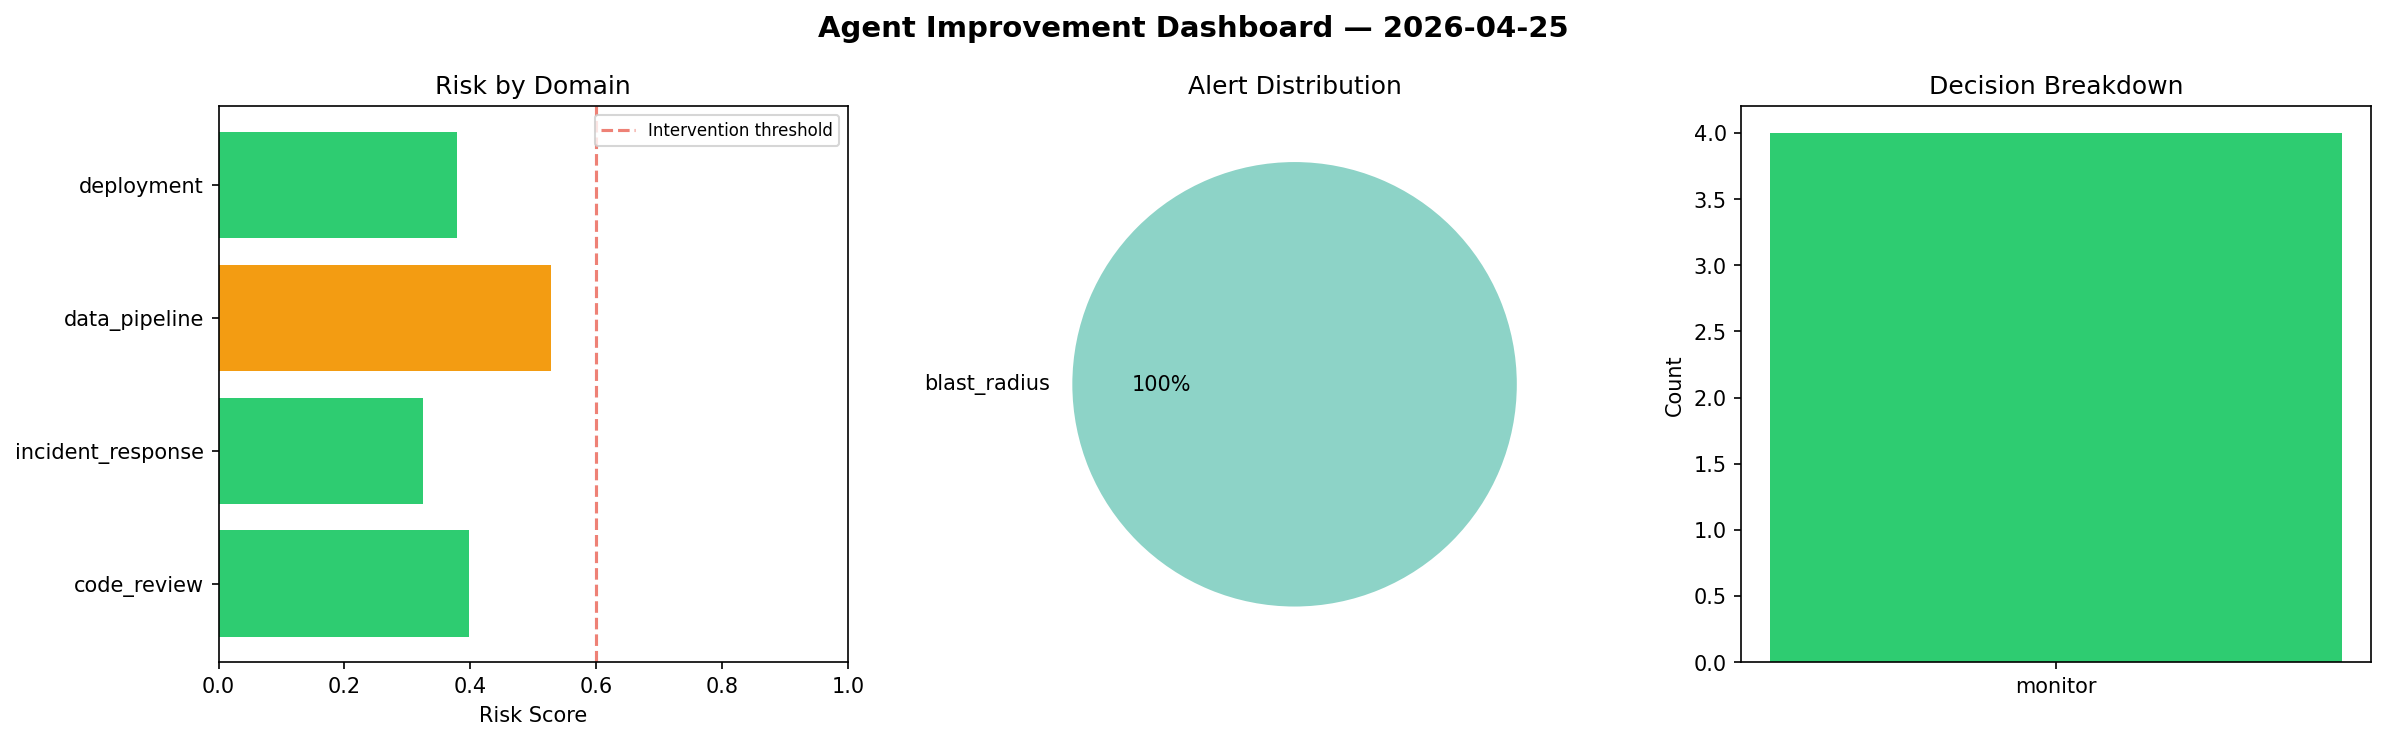
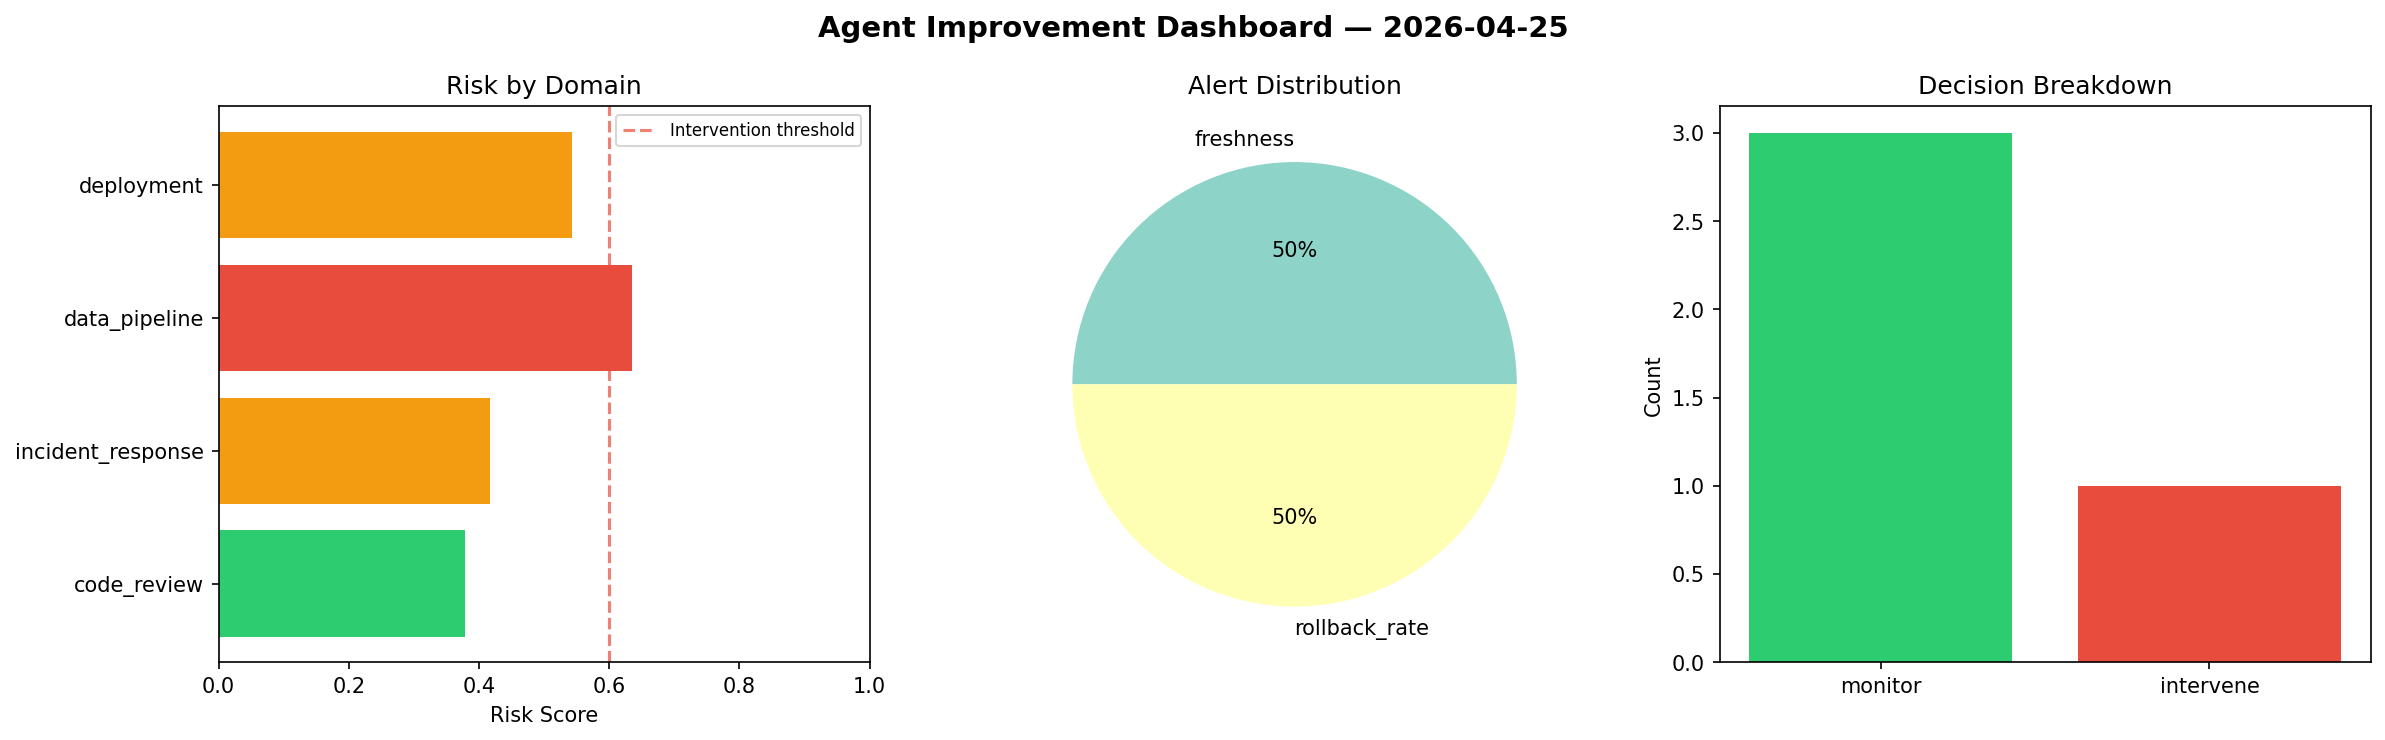
agent-improvement: daily cycle 2026-04-25T09:10

diff --git a/logs/2026-04-25.md b/logs/2026-04-25.md
@@ -1,6 +1,6 @@
 # Agent Improvement Report — 2026-04-25
 
-**Cycle ID:** `67b2c98e` | **Avg Risk:** 0.4078 | **Interventions:** 0/4
+**Cycle ID:** `d96ac67f` | **Avg Risk:** 0.4931 | **Interventions:** 1/4
 
 ![Dashboard](2026-04-25_dashboard.png)
 
@@ -10,18 +10,18 @@
 
 | Domain | Risk Score | Decision | Alerts |
 |--------|-----------|----------|--------|
-| code_review | 0.3987 | monitor | none |
-| incident_response | 0.3247 | monitor | blast_radius |
-| data_pipeline | 0.5285 | monitor | none |
-| deployment | 0.3793 | monitor | none |
+| code_review | 0.3788 | monitor | none |
+| incident_response | 0.4167 | monitor | none |
+| data_pipeline | 0.6346 | intervene | freshness |
+| deployment | 0.5421 | monitor | rollback_rate |
 
 ## Delta vs Yesterday
 
 | Domain | Today | Yesterday | Change |
 |--------|-------|-----------|--------|
-| code_review | 0.3987 | 0.6301 | 📉 -36.7% |
-| incident_response | 0.3247 | 0.2648 | 📈 22.6% |
-| data_pipeline | 0.5285 | 0.2794 | 📈 89.2% |
-| deployment | 0.3793 | 0.3995 | 📉 -5.1% |
+| code_review | 0.3788 | 0.6301 | 📉 -39.9% |
+| incident_response | 0.4167 | 0.2648 | 📈 57.4% |
+| data_pipeline | 0.6346 | 0.2794 | 📈 127.1% |
+| deployment | 0.5421 | 0.3995 | 📈 35.7% |
 
-**Refinement:** `{'adjustment': 'maintain', 'trend': 'improving', 'window': 4}`
+**Refinement:** `{'adjustment': 'tighten_thresholds', 'trend': 'degrading', 'window': 4}`
